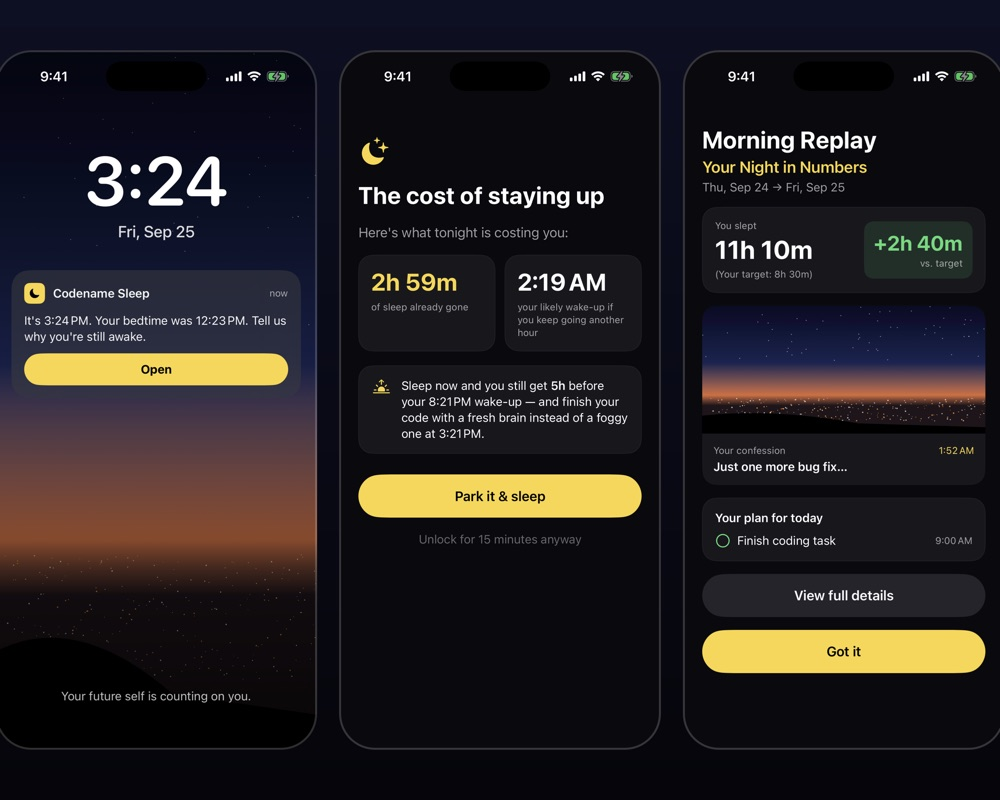
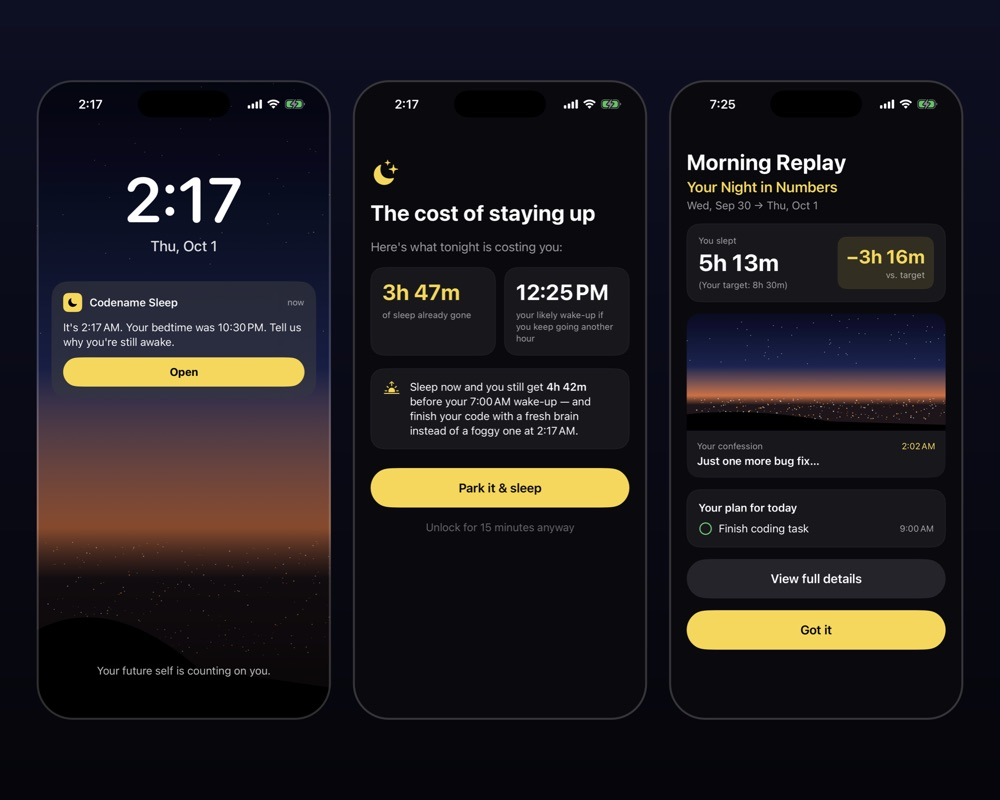
Add Codename Sleep to projects
iOS bedtime-accountability app: locks apps at bedtime until you explain
why you're up, then shows a morning replay of what it cost. Screenshot
shows the lock screen, the cost screen, and the morning replay.

diff --git a/index.html b/index.html
@@ -43,6 +43,7 @@
             <div class="side-nav-item" data-section="projects">
                 <span class="side-nav-label">Projects</span>
                 <div class="side-nav-dot"></div>
+                <div class="side-nav-sub-item"><a href="#project-codenamesleep">Codename Sleep</a></div>
                 <div class="side-nav-sub-item"><a href="#project-leetlog">Leetlog</a></div>
                 <div class="side-nav-sub-item"><a href="#project-sprintrivals">Sprint Rivals</a></div>
                 <div class="side-nav-sub-item"><a href="#project-traceback">TR4CEB4CK</a></div>
@@ -173,6 +174,26 @@
 
         <section id="projects">
             <h2>📱 Projects</h2>
+
+            <div class="project has-media" id="project-codenamesleep">
+                <div class="project-content">
+                    <div class="project-name">Codename Sleep</div>
+                    <div class="project-desc">An iOS app for night owls who keep staying up later than they mean to.
+                        At bedtime it locks your chosen apps until you explain (photo, voice, or text) why you're
+                        still awake, then shows you a morning replay of what the late night cost and turns your 2am
+                        ideas into a plan for tomorrow. Working prototype with personalized onboarding, sleep
+                        insights, and Screen Time–based app locking; in progress.</div>
+                    <div class="project-tech">
+                        <span class="tech">Swift</span>
+                        <span class="tech">SwiftUI</span>
+                        <span class="tech">Screen Time API (FamilyControls, DeviceActivity)</span>
+                        <span class="tech">Swift Charts</span>
+                        <span class="tech">AVFoundation</span>
+                        <span class="tech">EventKit</span>
+                    </div>
+                </div>
+                <div class="project-media"><img src="assets/codename_sleep_demo.jpg" alt="Codename Sleep"></div>
+            </div>
 
             <div class="project has-media" id="project-sprintrivals">
                 <div class="project-content">
